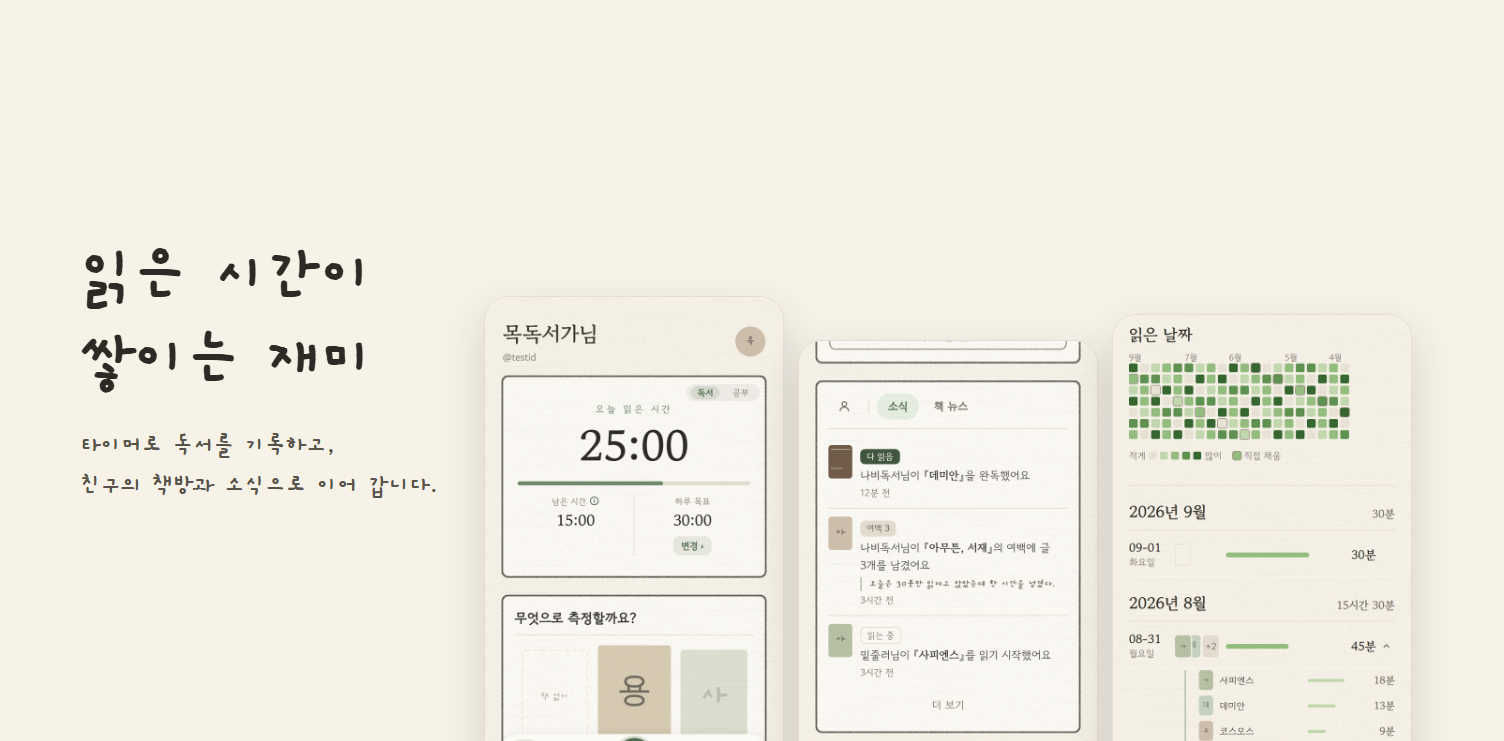
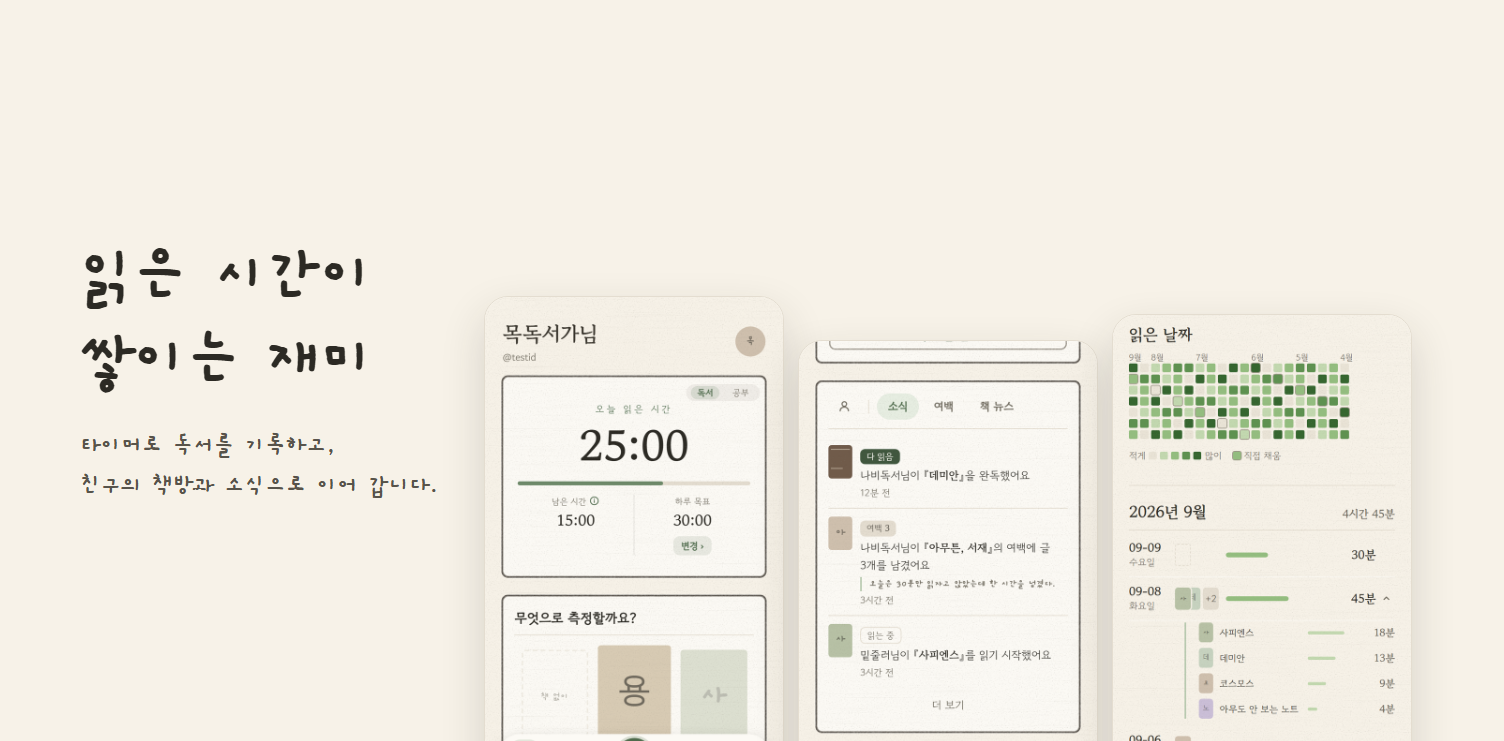
docs(미니앱): 스토어 스크린샷 02-feed 재촬영 — 「여백」 탭 반영 (#1064)
#1062로 홈 피드 박스에 「여백」 탭(팔로우 무관 공개 여백)이 서서 02-feed와
그것을 얹은 10-landscape만 갱신. 04·08은 오늘 기준 이동 diff뿐이라 되돌림.

Session-Model: fable

diff --git a/miniapp/screenshots/README.md b/miniapp/screenshots/README.md
@@ -11,7 +11,7 @@
 | 파일 | 화면 | 규격 |
 |---|---|---|
 | `01-home.png` | 홈 — 인사말·아바타 헤더 + 타이머 카드 + 표지 캐러셀 | 세로 |
-| `02-feed.png` | 홈(아래) — 「소식」·「책 뉴스」 피드 박스 | 세로 |
+| `02-feed.png` | 홈(아래) — 사람·「소식」·「여백」·「책 뉴스」 피드 박스 | 세로 |
 | `03-library.png` | 서재 — 상태 탭 + 표지 캐러셀 + 인라인 여백 박스 | 세로 |
 | `04-history.png` | 기록 — 잔디 + 날짜별 기록(여러 권 읽은 첫 날은 펼친 상태) | 세로 |
 | `05-goal.png` | 목표 — 시/분 휠 피커 | 세로 |
@@ -39,6 +39,10 @@
 붙은 옛 컷이 낡았다. 촬영기의 「지난달로 물러서기」 기준을 표식 0개에서 **3개 미만**으로 올렸다 — 09-02엔
 9월에 점 하나뿐이라 원·테두리·점 셋을 못 보여 줘 백지와 같은 문제였다. 04·10은 오늘 기준 이동 diff뿐이라
 되돌렸다(바뀐 화면이 아니다).
+
+**2026-09-09 재촬영 — 02(+10)만**: #1062로 피드 박스에 「여백」 탭(팔로우 무관 공개 여백)이 섰다. 탭 줄이
+바뀐 컷은 02뿐이라 그것과 그걸 얹은 10만 갱신했다. 04·08도 diff가 났지만 오늘 기준 이동(잔디·달력)뿐이라
+되돌렸다(09-02 항목과 같은 판단).
 
 ## 재촬영 — `shoot.mjs` 한 방
 
